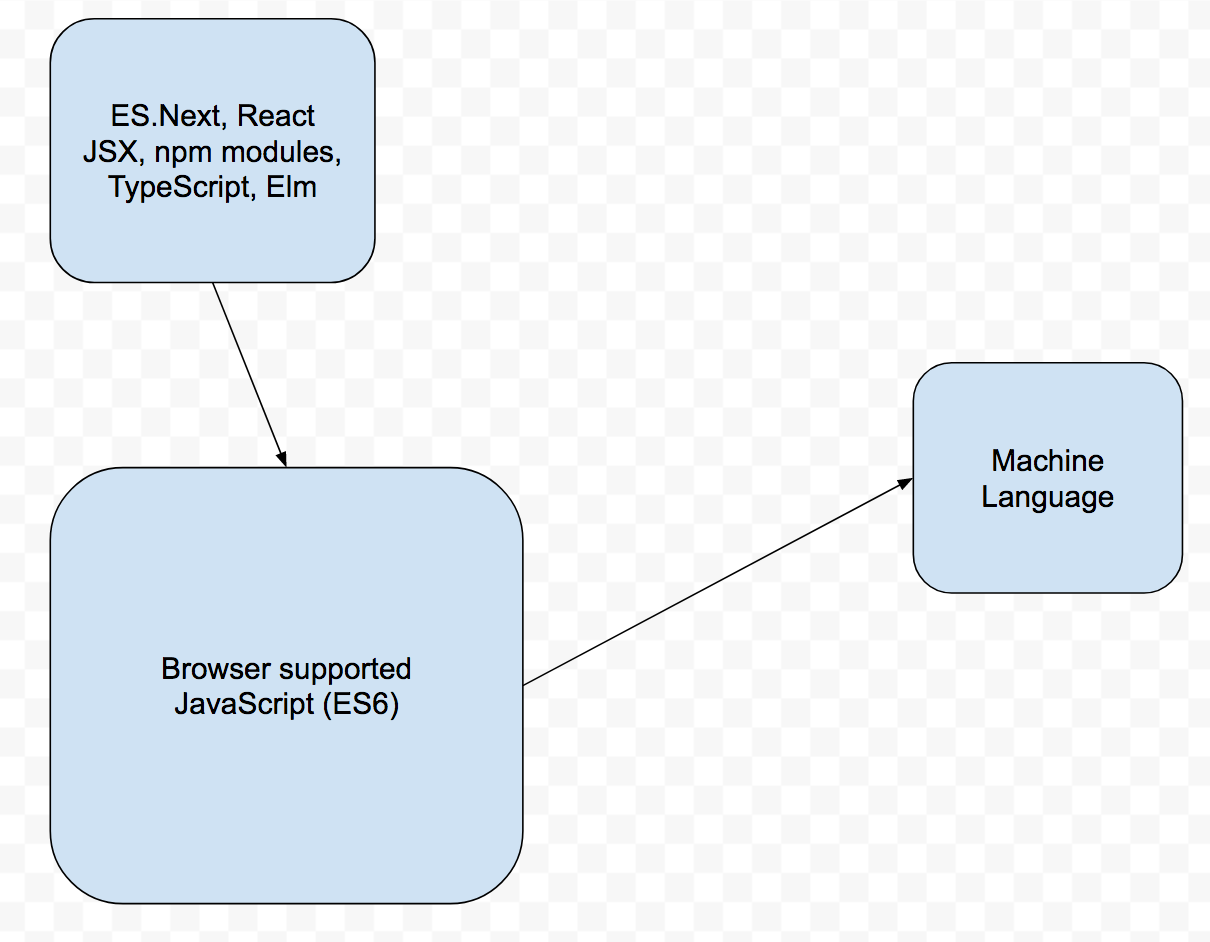
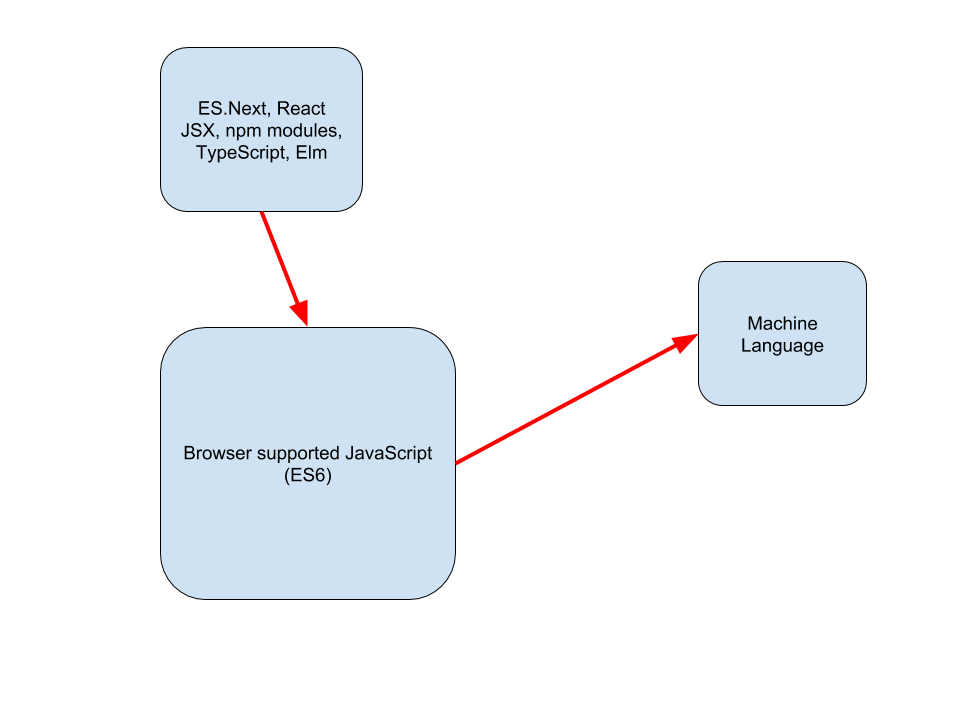
better drawings, learn to learn, etc.

diff --git a/Presentation.md b/Presentation.md
@@ -1,6 +1,12 @@
 build-lists: true
 
-# [fit][Web Assembly Dance Party](https://www.youtube.com/watch?v=ojP0BO6H4Qc)
+# How did I get here?
+
+![inline](https://media1.tenor.com/images/5cb200146b45eb17e3d451ed9917eb62/tenor.gif?itemid=9201571)
+
+---
+
+# [fit]WebAssembly Dance Party
 
 ![inline](https://media.giphy.com/media/l3q2zbskZp2j8wniE/giphy.gif)
 
@@ -49,7 +55,7 @@ build-lists: true
 
 # Back in the day
 
-![inline](./Images/Wasm1.png)
+![inline clear](./Images/Wasm1.png)
 
 ---
 
@@ -67,7 +73,7 @@ build-lists: true
 
 # THE FUTURE (Today)
 
-![inline](./Images/Wasm4.png)
+![inline](./Images/Wasm42.png)
 
 ---
 
@@ -88,6 +94,14 @@ build-lists: true
 * Teaching JavaScript is the hardest by far
 * ES5 was hard to begin with
 * ES6, 7, 8, etc. making it even more difficult
+
+---
+
+# A student / teacher perspective on WebAssembly
+* If you can learn JavaScript, you can learn anything!
+* Learn to learn, unfamiliar environments, problem solving
+* Many students get jobs working with other languages
+* Must be able to talk about programming in general
 
 ---
 
